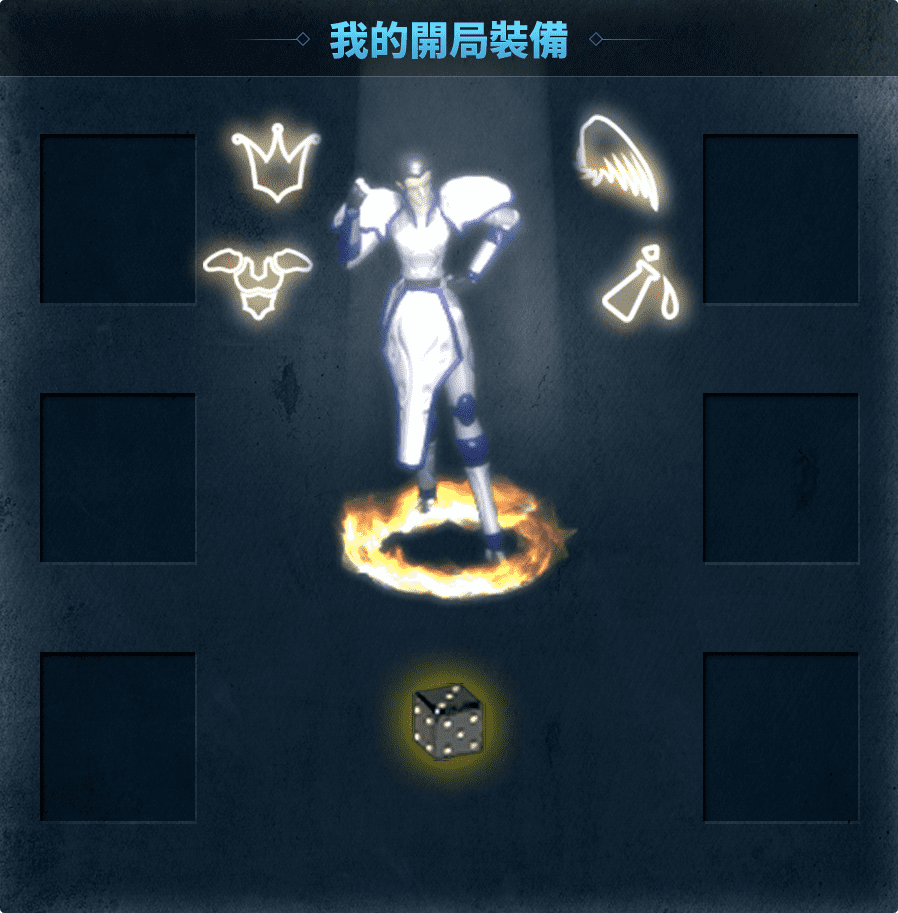
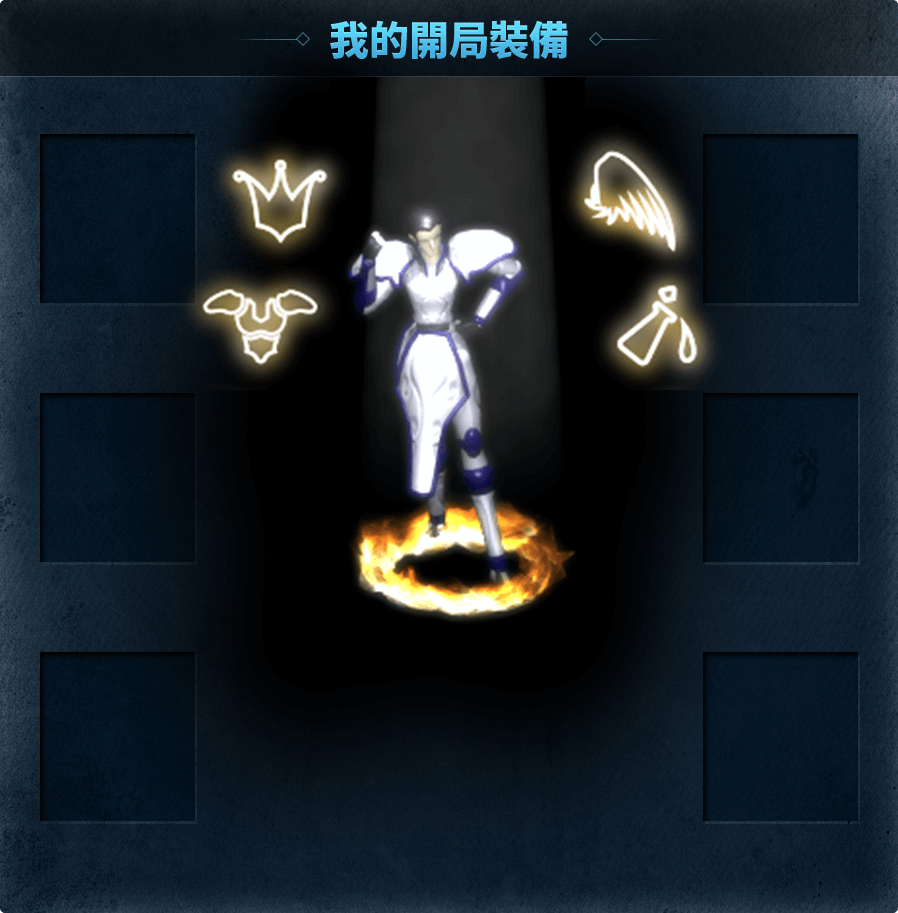
123123

diff --git a/Canvas-drawImage copy.html b/Canvas-drawImage copy.html
@@ -1,0 +1,183 @@
+<!DOCTYPE html>
+<html lang="zh-Hant-TW">
+	<head>
+		<meta charset="UTF-8" />
+		<meta name="viewport" content="width=device-width, initial-scale=1.0" />
+		<title>Document</title>
+		<script src="https://tw.hicdn.beanfun.com/jquery/jquery.min.js"></script>
+		<script src="https://tw.hicdn.beanfun.com/jquery/jquery-migrate.min.js"></script>
+		<style>
+			* {
+				padding: 0;
+				margin: 0;
+			}
+			body {
+				background-color: #000;
+			}
+			#canvas {
+				z-index: 1;
+			}
+		</style>
+	</head>
+	<body>
+		<canvas id="canvas" class="canvas"></canvas>
+		<script>
+			var canvas = document.getElementById("canvas");
+			var ctx = canvas.getContext("2d");
+			var s = window.innerWidth / 768;
+			var box = 125 * s;
+			var fz = 28 * s;
+			var paddingTop = 14 * s;
+			var itemMaxWidth = 81 * s;
+			canvas.width = 718 * s;
+			canvas.height = (922 + paddingTop) * s;
+			var width = canvas.width;
+			var height = canvas.height;
+			var bgW = 718 * s;
+			var bgH = 922 * s;
+			var lockW = 22 * s;
+			var lockH = 30 * s;
+			var timesBgW = 193 * s;
+			var timesBgH = 136 * s;
+
+			var shareList = [
+				{ type: 1, name: "頭盔1", lock: true, img: "images/8673.png" },
+				{ type: 2, name: "披風", lock: false, img: "images/12345.png" },
+				{ type: 3, name: "盔甲", lock: false, img: "images/1234.png" },
+				{ type: 4, name: "脛甲", lock: false, img: "images/8673.png" },
+				{ type: 5, name: "武器", lock: false, img: "images/8673.png" },
+				{ type: 6, name: "鞋子", lock: true, img: "images/8673.png" },
+			];
+
+			var lockXY = {
+				pc: [[]],
+				mb: [
+					[s * 45, s * 160 + paddingTop],
+					[s * 575, s * 160 + paddingTop],
+					[s * 45, s * 395 + paddingTop],
+					[s * 575, s * 395 + paddingTop],
+					[s * 45, s * 638 + paddingTop],
+					[s * 575, s * 638 + paddingTop],
+				],
+			};
+			var lockGroup = [];
+
+			shareList.forEach(function (v, i) {
+				var lockImg = v.lock ? "btn-lock-on" : "btn-lock-off";
+				lockGroup.push(new drawImage(ctx, lockImg, lockXY["mb"][i][0], lockXY["mb"][i][1] + paddingTop, lockW, lockH));
+			});
+
+			var bg = new drawImage(ctx, "m-lb-share-bg", 0, 0 + paddingTop, bgW, bgH);
+			// var lock1 = new drawImage(ctx, "btn-lock-off", s * 45, s * 160 + paddingTop, lockW, lockH);
+			// var lock2 = new drawImage(ctx, "btn-lock-off", s * 575, s * 160 + paddingTop, lockW, lockH);
+			// var lock3 = new drawImage(ctx, "btn-lock-off", s * 45, s * 395 + paddingTop, lockW, lockH);
+			// var lock4 = new drawImage(ctx, "btn-lock-off", s * 575, s * 395 + paddingTop, lockW, lockH);
+			// var lock5 = new drawImage(ctx, "btn-lock-off", s * 45, s * 638 + paddingTop, lockW, lockH);
+			// var lock6 = new drawImage(ctx, "btn-lock-off", s * 575, s * 638 + paddingTop, lockW, lockH);
+			var item1 = new drawImage(ctx, "8673", s * 56, s * 182 + paddingTop);
+			var item2 = new drawImage(ctx, "1234", s * 586, s * 182 + paddingTop);
+			var item3 = new drawImage(ctx, "12345", s * 56, s * 420 + paddingTop);
+			var item4 = new drawImage(ctx, "12345", s * 586, s * 420 + paddingTop);
+			var item5 = new drawImage(ctx, "12345", s * 56, s * 660 + paddingTop);
+			var item6 = new drawImage(ctx, "12345", s * 586, s * 660 + paddingTop);
+			var timesBg = new drawImage(ctx, "m-lb-times-bg", s * 0, s * 0, timesBgW, timesBgH);
+			var timesNum = new drawText(ctx, "20", s * 93, s * 90, "#fff");
+
+			var item1Text = new drawText(ctx, "裝備一一", 93 * s, 310 * s + paddingTop);
+			var item2Text = new drawText(ctx, "+6底比斯歐西里斯雙手劍", 623 * s, 310 * s + paddingTop);
+			var item3Text = new drawText(ctx, "裝備一三", 93 * s, 545 * s + paddingTop);
+			var item4Text = new drawText(ctx, "裝備一四", 623 * s, 545 * s + paddingTop);
+			var item5Text = new drawText(ctx, "裝備一五", 93 * s, 788 * s + paddingTop);
+			var item6Text = new drawText(ctx, "裝備一六", 623 * s, 788 * s + paddingTop);
+
+			function drawImage(target, name, x, y, w, h) {
+				this.image = new Image();
+				this.image.src = "./images/" + name + ".png";
+				this.x = x;
+				this.y = y;
+				this.w = w;
+				this.h = h;
+				this.target = target;
+				this.update = function () {
+					if (this.w) {
+						this.target.drawImage(this.image, this.x, this.y, this.w, this.h);
+					} else {
+						var itemW = this.image.naturalWidth;
+						var itemH = this.image.naturalHeight;
+						if (itemW > itemMaxWidth) {
+							// console.log(itemW, itemH);
+							this.target.drawImage(this.image, this.x, this.y, (itemMaxWidth / itemW) * itemW, (itemMaxWidth / itemH) * itemH);
+						} else {
+							this.target.drawImage(this.image, this.x, this.y, itemW * s, itemH * s);
+						}
+					}
+				};
+			}
+
+			function drawText(target, text, x, y, color) {
+				this.x = x;
+				this.y = y;
+				this.text = text;
+				this.target = target;
+				this.color = color;
+				this.update = function () {
+					var totalSize = this.target.measureText(this.text).width;
+					var line = "";
+					if (this.color) {
+						this.target.fillStyle = this.color;
+					}
+					if (totalSize > box) {
+						var t = Math.floor(box / fz);
+						var len = Math.ceil(this.text.length / t);
+						for (var i = 0; i < len; i++) {
+							line = this.text.substr(t * i, t);
+							this.target.fillText(line, this.x, this.y + i * fz);
+						}
+					} else {
+						this.target.fillText(this.text, this.x, this.y);
+					}
+				};
+			}
+
+			function drawShare() {
+				ctx.clearRect(0, 0, width, height);
+				ctx.font = fz + "px 微軟正黑體";
+				ctx.fillStyle = "#5ed0ff";
+				ctx.textAlign = "center";
+				bg.update();
+
+				for (var i = 0; i < lockGroup.length; i++) {
+					lockGroup[i].update();
+				}
+				// lock1.update();
+				// lock2.update();
+				// lock3.update();
+				// lock4.update();
+				// lock5.update();
+				// lock6.update();
+
+				item1.update();
+				item2.update();
+				item3.update();
+				item4.update();
+				item5.update();
+				item6.update();
+
+				item1Text.update();
+				item2Text.update();
+				item3Text.update();
+				item4Text.update();
+				item5Text.update();
+				item6Text.update();
+
+				timesBg.update();
+				timesNum.update();
+
+				setTimeout(function () {
+					drawShare();
+				}, 1000 / 60);
+			}
+			drawShare();
+		</script>
+	</body>
+</html>

diff --git a/Canvas-drawImage2.html b/Canvas-drawImage2.html
@@ -6,6 +6,7 @@
 		<title>Document</title>
 		<script src="https://tw.hicdn.beanfun.com/jquery/jquery.min.js"></script>
 		<script src="https://tw.hicdn.beanfun.com/jquery/jquery-migrate.min.js"></script>
+		<script src="https://tw.hicdn.beanfun.com/plugins/isMobile/isMobile.min.js"></script>
 		<style>
 			* {
 				padding: 0;
@@ -30,13 +31,15 @@
 				{ type: 5, name: "裝備一五", lock: false, img: "images/8673.png" },
 				{ type: 6, name: "裝備一", lock: true, img: "images/8673.png" },
 			];
-			drawShareWrap(shareList);
-			function drawShareWrap(shareList) {
+			var t = new drawShare(shareList);
+			t.draw();
+			function drawShare(shareList) {
 				var canvas = document.getElementById("canvas");
 				var ctx = canvas.getContext("2d");
 				var timer;
+				var stop = false;
 				var device = "";
-				if (true) {
+				if (isMobile.any) {
 					device = "mb";
 					var s = window.innerWidth / 768;
 					var box = 125 * s;
@@ -51,6 +54,8 @@
 					var lockH = 30 * s;
 					var timesBgW = 193 * s;
 					var timesBgH = 136 * s;
+					var diceBgW = 200 * s;
+					var diceBgH = 284 * s;
 				} else {
 					device = "pc";
 					var box = 157;
@@ -65,6 +70,8 @@
 					var lockH = 38;
 					var timesBgW = 193;
 					var timesBgH = 136;
+					var diceBgW = 200;
+					var diceBgH = 284;
 				}
 				var width = canvas.width;
 				var height = canvas.height;
@@ -135,13 +142,15 @@
 				});
 
 				if (device == "mb") {
-					var bg = new drawImage(ctx, "images/m-lb-share-bg.png", 0, 0 + paddingTop, bgW, bgH);
+					var bg = new drawImage(ctx, "images/m-lb-sh_are-bg.png", 0, 0 + paddingTop, bgW, bgH);
 					var timesBg = new drawImage(ctx, "images/m-lb-times-bg.png", s * 0, s * 0, timesBgW, timesBgH);
 					var timesNum = new drawText(ctx, "20", s * 93, s * 90, "#fff", 30 * s);
+					var diceBg = new drawImage(ctx, "images/dice1.png", s * 260, s * 520, diceBgW, diceBgH);
 				} else {
 					var bg = new drawImage(ctx, "images/lb-sh_are-bg.png", 0, 0 + paddingTop, bgW, bgH);
 					var timesBg = new drawImage(ctx, "images/lb-times-bg.png", 0, 0, timesBgW, timesBgH);
 					var timesNum = new drawText(ctx, "20", 93, 95, "#fff", 25);
+					var diceBg = new drawImage(ctx, "images/dice1.png", 350, 540, diceBgW, diceBgH);
 				}
 
 				function drawImage(target, name, x, y, w, h) {
@@ -198,7 +207,7 @@
 					};
 				}
 
-				function drawShare() {
+				this.draw = function () {
 					ctx.clearRect(0, 0, width, height);
 					ctx.font = fz + "px 微軟正黑體";
 					ctx.fillStyle = "#5ed0ff";
@@ -212,18 +221,19 @@
 					}
 					timesBg.update();
 					timesNum.update();
-					timer = setTimeout(function () {
-						drawShare();
-					}, 1000 / 60);
-				}
-
-				function stopDraw() {
-					clearTimeout();
-				}
-
-				return {
-					drawShare: drawShare,
-					stopDraw: stopDraw,
+					diceBg.update();
+					var _this = this;
+					if (stop) {
+						ctx.clearRect(0, 0, width, height);
+						clearTimeout(timer);
+					} else {
+						timer = setTimeout(function () {
+							_this.draw();
+						}, 1000 / 60);
+					}
+				};
+				this.stopDraw = function () {
+					stop = true;
 				};
 			}
 		</script>
